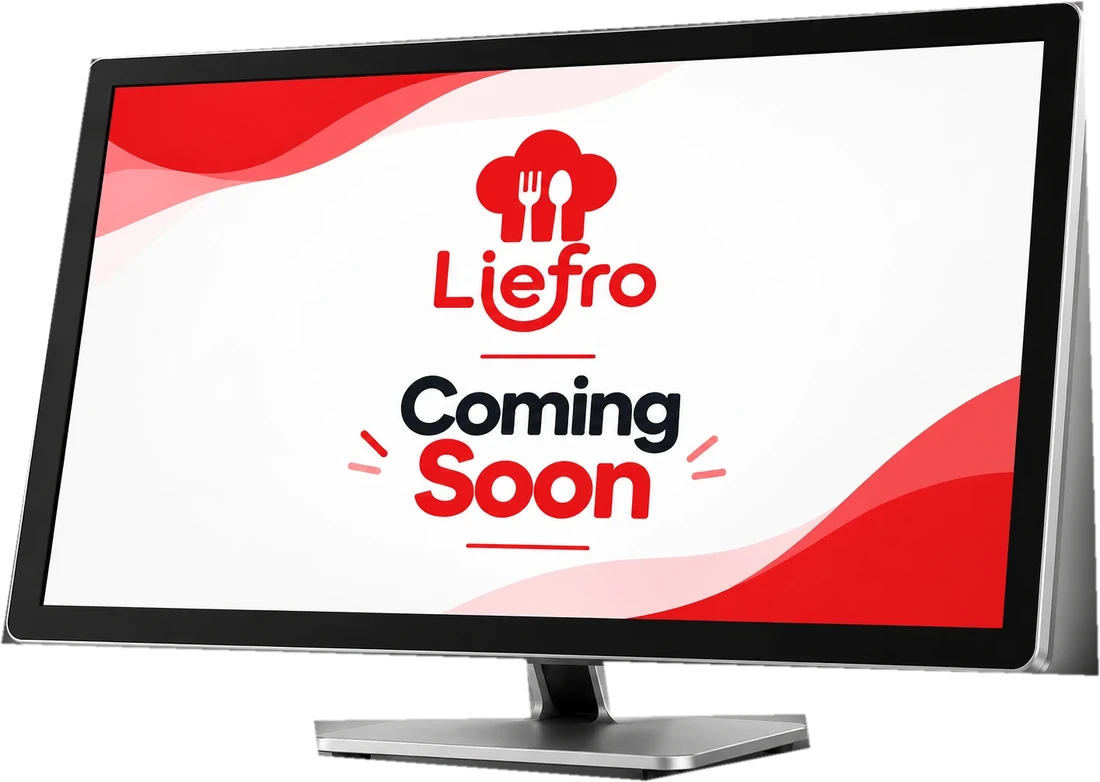
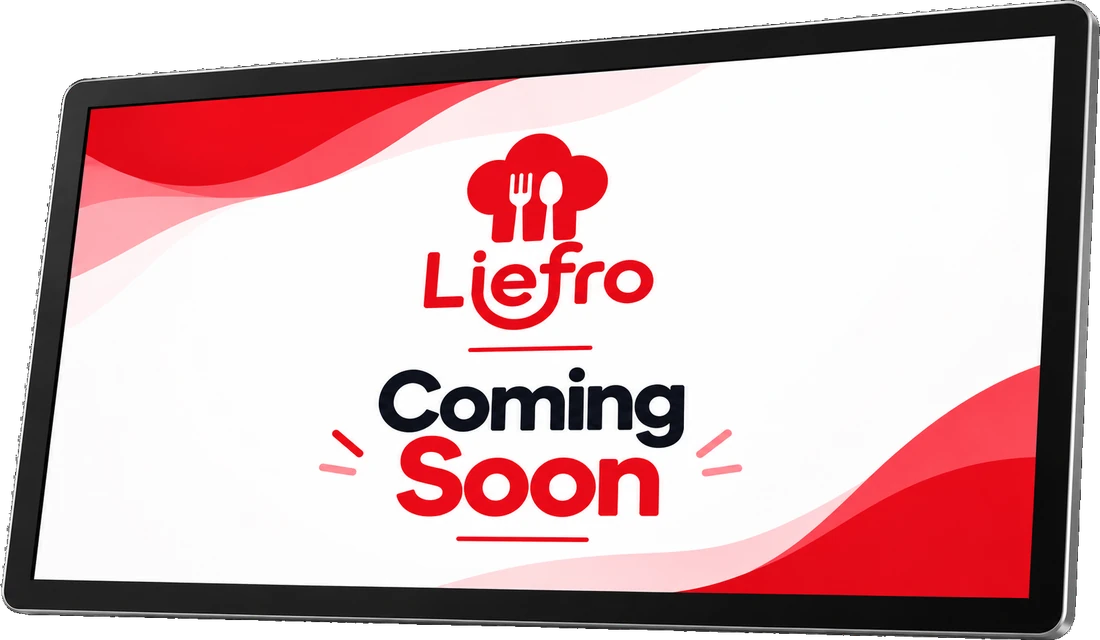
Redesign QR section, update kiosk and chef display images, trim header nav
- Rebuild the home QR section with copy on the left over the new scan.png
  and a more compact height
- Replace kiosk and chef display product images (chef display background
  made transparent)
- Remove About and Contact from the header menu; they stay in the footer

diff --git a/frontend/src/components/home/QRSection.jsx b/frontend/src/components/home/QRSection.jsx
@@ -1,115 +1,104 @@
-import scanBg from "../../assets/scan.png";
-import {
-  FiClock,
-  FiTrendingUp,
-  FiUsers,
-  FiShield,
-  FiArrowRight,
-} from "react-icons/fi";
 import { useRef } from "react";
 import { motion, useScroll, useTransform } from "framer-motion";
 import { useTranslation } from "react-i18next";
+import { ArrowRight, BarChart3, QrCode, Shield, Users, Zap } from "lucide-react";
+import scanBg from "../../assets/scan.png";
+import logo from "../../assets/logo.png";
 import { useLocalizedNavigate } from "../shared";
 import { Reveal, Stagger, StaggerItem } from "../motion";
+
+const features = [
+  { key: "faster", Icon: Zap },
+  { key: "higher", Icon: BarChart3 },
+  { key: "lessStaff", Icon: Users },
+  { key: "secure", Icon: Shield },
+];
+
+// Three short red strokes, used as an accent next to the heading.
+function Splash({ className = "" }) {
+  return (
+    <svg viewBox="0 0 40 40" className={className} aria-hidden="true">
+      <g stroke="currentColor" strokeWidth="5" strokeLinecap="round">
+        <path d="M10 4 L13 15" />
+        <path d="M30 8 L22 18" />
+        <path d="M36 26 L25 26" />
+      </g>
+    </svg>
+  );
+}
 
 export default function QRSection() {
   const { t } = useTranslation();
   const navigate = useLocalizedNavigate();
   const frameRef = useRef(null);
   const { scrollYProgress } = useScroll({ target: frameRef, offset: ["start end", "end start"] });
-  const bgScale = useTransform(scrollYProgress, [0, 1], [1.25, 1]);
-  const bgY = useTransform(scrollYProgress, [0, 1], ["-6%", "6%"]);
-  return (
-    <section className="hidden lg:flex flex-col justify-center relative py-6 lg:py-16 overflow-hidden bg-white">
-      <div className="max-w-[1600px] mx-auto px-6 w-full h-full flex flex-col justify-center">
-        <div ref={frameRef} className="relative min-h-[600px] lg:min-h-0 lg:h-[80vh] rounded-3xl lg:rounded-[40px] overflow-hidden shadow-2xl">
+  const bgScale = useTransform(scrollYProgress, [0, 1], [1.08, 1]);
+  const bgY = useTransform(scrollYProgress, [0, 1], ["-3%", "3%"]);
 
-          {/* Background Image */}
+  return (
+    <section className="hidden lg:flex flex-col justify-center relative py-10 overflow-hidden bg-white">
+      <div className="max-w-[1600px] mx-auto px-6 w-full">
+        <div ref={frameRef} className="relative rounded-[40px] overflow-hidden shadow-2xl bg-[#f5f5f5]">
+          {/* Phone + table stand photo, anchored right so the devices stay in view */}
           <motion.img
             src={scanBg}
             alt="QR Ordering"
             style={{ scale: bgScale, y: bgY }}
-            className="absolute inset-0 w-full h-full object-cover"
+            className="absolute inset-0 w-full h-full object-cover object-right"
           />
 
-          {/* White Overlay Right Side */}
-          <div className="absolute right-0 top-0 h-full w-full lg:w-[48%] flex items-center">
-            <Reveal className="px-6 py-8 sm:p-10 lg:px-36 w-full">
+          {/* Soft white wash behind the copy */}
+          <div className="absolute inset-y-0 left-0 w-[60%] bg-gradient-to-r from-white via-white/85 to-transparent pointer-events-none" />
 
-              {/* Tag */}
-              <div className="inline-flex items-center border border-red-500 rounded-full px-4 py-1.5 sm:px-6 sm:py-2.5 text-red-600 font-semibold tracking-wide text-xs sm:text-sm mb-4 lg:mb-6">
+          {/* Copy */}
+          <div className="relative min-h-[540px] w-[46%] flex items-center py-10">
+            <Reveal className="pl-16 xl:pl-24 pr-6 w-full">
+              <img src={logo} alt="Liefro" className="h-10 xl:h-11 w-auto -ml-2" />
+
+              <div className="mt-4 inline-flex items-center gap-2 rounded-full bg-red-100/70 border border-red-200 px-4 py-2 text-red-600 font-semibold text-sm">
+                <QrCode size={18} />
                 {t("qr.badge")}
               </div>
 
-              {/* Heading */}
-              <h2 className="text-2xl sm:text-3xl lg:text-[45px] leading-[0.95] font-black uppercase text-black">
+              <h2 className="mt-4 text-[clamp(2.25rem,3.4vw,3.75rem)] leading-[0.95] font-black uppercase text-[#0b0b0f] tracking-tight">
                 {t("qr.headingLine1")}
                 <br />
-                {t("qr.headingLine2")}
+                <span className="relative inline-block">
+                  {t("qr.headingLine2")}
+                  <Splash className="absolute -right-10 top-0 w-8 h-8 text-red-600" />
+                </span>
                 <br />
                 {t("qr.headingLine3")}
                 <br />
                 <span className="text-red-600">{t("qr.headingLine4")}</span>
               </h2>
 
-              {/* Description */}
-              <p className="mt-4 text-xs sm:text-sm lg:text-base text-gray-600 leading-relaxed max-w-xl">
+              <p className="mt-4 text-sm xl:text-base text-gray-600 leading-relaxed max-w-md">
                 {t("qr.description")}
               </p>
 
-              {/* Features */}
-              <Stagger delay={0.3} className="grid grid-cols-2 lg:grid-cols-4 gap-4 lg:gap-6 mt-6 lg:mt-8">
-
-                <StaggerItem className="text-center">
-                  <div className="w-10 h-10 sm:w-12 sm:h-12 mx-auto rounded-full border border-red-200 flex items-center justify-center bg-red-50/50">
-                    <FiClock className="text-red-600 text-base sm:text-lg" />
-                  </div>
-                  <h4 className="mt-2 font-bold text-xs sm:text-sm text-gray-900">{t("qr.features.faster.title")}</h4>
-                  <p className="text-gray-500 text-[10px] sm:text-xs leading-tight mt-0.5">{t("qr.features.faster.subtitle")}</p>
-                </StaggerItem>
-
-                <StaggerItem className="text-center">
-                  <div className="w-10 h-10 sm:w-12 sm:h-12 mx-auto rounded-full border border-red-200 flex items-center justify-center bg-red-50/50">
-                    <FiTrendingUp className="text-red-600 text-base sm:text-lg" />
-                  </div>
-                  <h4 className="mt-2 font-bold text-xs sm:text-sm text-gray-900">{t("qr.features.higher.title")}</h4>
-                  <p className="text-gray-500 text-[10px] sm:text-xs leading-tight mt-0.5">{t("qr.features.higher.subtitle")}</p>
-                </StaggerItem>
-
-                <StaggerItem className="text-center">
-                  <div className="w-10 h-10 sm:w-12 sm:h-12 mx-auto rounded-full border border-red-200 flex items-center justify-center bg-red-50/50">
-                    <FiUsers className="text-red-600 text-base sm:text-lg" />
-                  </div>
-                  <h4 className="mt-2 font-bold text-xs sm:text-sm text-gray-900">{t("qr.features.lessStaff.title")}</h4>
-                  <p className="text-gray-500 text-[10px] sm:text-xs leading-tight mt-0.5">{t("qr.features.lessStaff.subtitle")}</p>
-                </StaggerItem>
-
-                <StaggerItem className="text-center">
-                  <div className="w-10 h-10 sm:w-12 sm:h-12 mx-auto rounded-full border border-red-200 flex items-center justify-center bg-red-50/50">
-                    <FiShield className="text-red-600 text-base sm:text-lg" />
-                  </div>
-                  <h4 className="mt-2 font-bold text-xs sm:text-sm text-gray-900">{t("qr.features.secure.title")}</h4>
-                  <p className="text-gray-500 text-[10px] sm:text-xs leading-tight mt-0.5">{t("qr.features.secure.subtitle")}</p>
-                </StaggerItem>
-
+              <Stagger delay={0.3} className="grid grid-cols-4 gap-4 mt-5 max-w-md">
+                {features.map(({ key, Icon }) => (
+                  <StaggerItem key={key} className="text-center">
+                    <div className="w-12 h-12 mx-auto rounded-full bg-red-50 border border-red-100 flex items-center justify-center shadow-[0_8px_20px_rgba(220,38,38,0.08)]">
+                      <Icon className="text-red-600" size={20} />
+                    </div>
+                    <h4 className="mt-2 font-bold text-sm text-gray-900">{t(`qr.features.${key}.title`)}</h4>
+                    <p className="text-gray-500 text-xs mt-0.5">{t(`qr.features.${key}.subtitle`)}</p>
+                  </StaggerItem>
+                ))}
               </Stagger>
 
-              {/* CTA */}
-              <button onClick={() => navigate("/qr-ordering")} className="group mt-6 lg:mt-8 bg-red-600 hover:bg-red-700 text-white px-6 py-3 sm:px-8 sm:py-4 rounded-xl font-semibold text-xs sm:text-sm flex items-center gap-2 transition-all duration-300">
+              <button
+                type="button"
+                onClick={() => navigate("/qr-ordering")}
+                className="group mt-6 inline-flex items-center gap-3 bg-red-600 hover:bg-red-700 text-white px-8 py-3.5 rounded-full font-semibold text-base shadow-[0_15px_35px_rgba(220,38,38,0.35)] transition-all duration-300"
+              >
                 {t("qr.cta")}
-                <FiArrowRight className="group-hover:translate-x-1 transition-transform duration-300" />
+                <ArrowRight size={18} className="group-hover:translate-x-1 transition-transform duration-300" />
               </button>
-
             </Reveal>
           </div>
-
-          {/* Decorative Lines */}
-          <div className="absolute top-0 right-0 w-80 h-80 opacity-20 pointer-events-none">
-            <div className="absolute inset-0 border border-red-200 rounded-full scale-100"></div>
-            <div className="absolute inset-0 border border-red-200 rounded-full scale-125"></div>
-            <div className="absolute inset-0 border border-red-200 rounded-full scale-150"></div>
-          </div>
-
         </div>
       </div>
     </section>

diff --git a/frontend/src/components/layout/Header.jsx b/frontend/src/components/layout/Header.jsx
@@ -86,10 +86,6 @@ export default function Header({ dark = false }) {
     }, 150);
   };
 
-  const mobileNavLinks = [
-    { key: "contact", label: t("header.nav.contact") },
-  ];
-
   return (
     // Header ko full width kiya aur top par stick kiya
     <header className="fixed top-0 left-0 z-50 w-full">
@@ -154,21 +150,6 @@ export default function Header({ dark = false }) {
                 className={`transition-transform ${taxOpen ? "rotate-180" : ""}`}
               />
             </LocalizedLink>
-
-            <LocalizedLink
-              to="/about"
-              className={`transition-colors font-medium ${navLinkClass}`}
-            >
-              {t("header.nav.about")}
-            </LocalizedLink>
-
-            <button
-              type="button"
-              onClick={handleContactClick}
-              className={`transition-colors font-medium ${navLinkClass}`}
-            >
-              {t("header.nav.contact")}
-            </button>
           </nav>
 
           <ProductsMegaMenu
@@ -335,28 +316,6 @@ export default function Header({ dark = false }) {
                   </div>
                 )}
               </div>
-
-              <LocalizedLink
-                to="/about"
-                onClick={() => setMobileOpen(false)}
-                className="text-left px-5 py-4 font-medium text-gray-700 hover:bg-red-50 hover:text-red-600 transition-colors"
-              >
-                {t("header.nav.about")}
-              </LocalizedLink>
-
-              {mobileNavLinks.map((link) => (
-                <button
-                  key={link.key}
-                  type="button"
-                  onClick={() => {
-                    setMobileOpen(false);
-                    handleContactClick();
-                  }}
-                  className="text-left px-5 py-4 font-medium text-gray-700 hover:bg-red-50 hover:text-red-600 transition-colors"
-                >
-                  {link.label}
-                </button>
-              ))}
 
               <div>
                 <button

diff --git a/frontend/src/components/home/POSDevicesSection.jsx b/frontend/src/components/home/POSDevicesSection.jsx
@@ -10,8 +10,8 @@ const devices = [
   { key: "go", image: "/hero/device-handheld.webp", width: 691, height: 1536, imgClass: "max-w-[42%]", to: "/pos-system-development" },
   { key: "waiter", image: "/hero/phone-kellner.webp", width: 720, height: 1409, imgClass: "max-w-[45%]", to: "/mobile-app-development" },
   { key: "printer", image: "/hero/device-printer.webp", width: 1000, height: 1043, imgClass: "max-w-[70%]", to: "/printer-integration" },
-  { key: "kiosk", image: "/hero/kiosk.webp", width: 700, height: 1152, imgClass: "max-w-[55%]", comingSoon: true },
-  { key: "kds", image: "/hero/chef-display.webp", width: 1100, height: 782, imgClass: "max-w-[78%]", comingSoon: true },
+  { key: "kiosk", image: "/hero/kiosk.webp", width: 700, height: 1171, imgClass: "max-w-[55%]", comingSoon: true },
+  { key: "kds", image: "/hero/chef-display.webp", width: 1100, height: 640, imgClass: "max-w-[78%]", comingSoon: true },
 ];
 
 export default function POSDevicesSection() {
